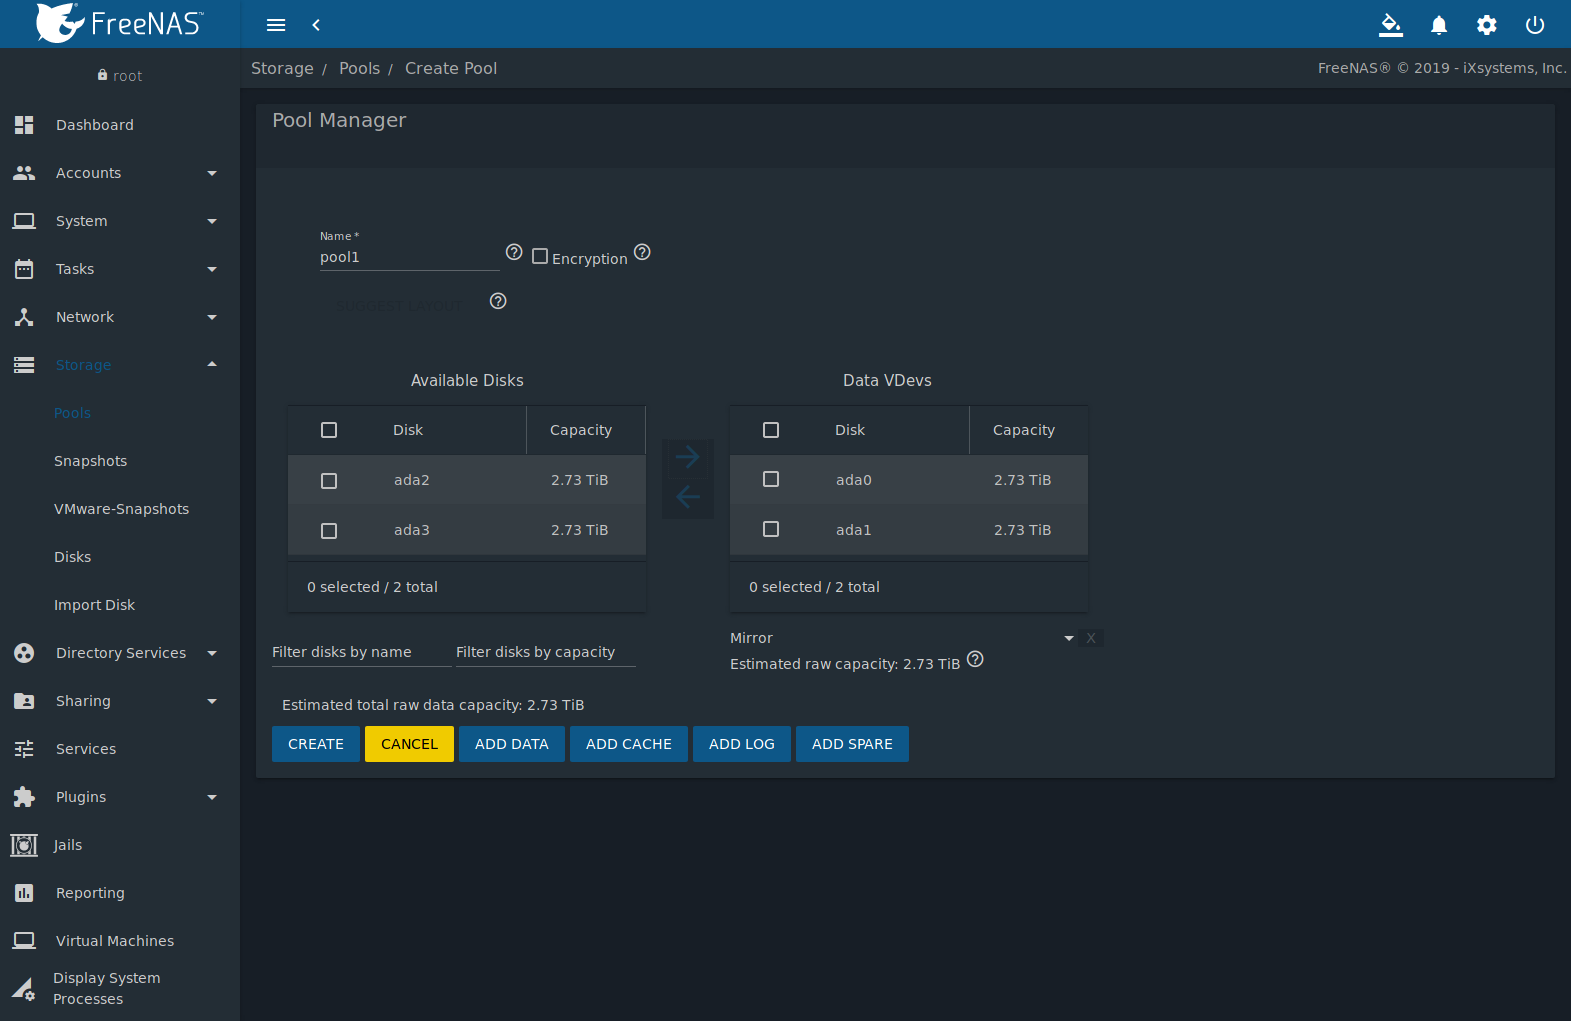
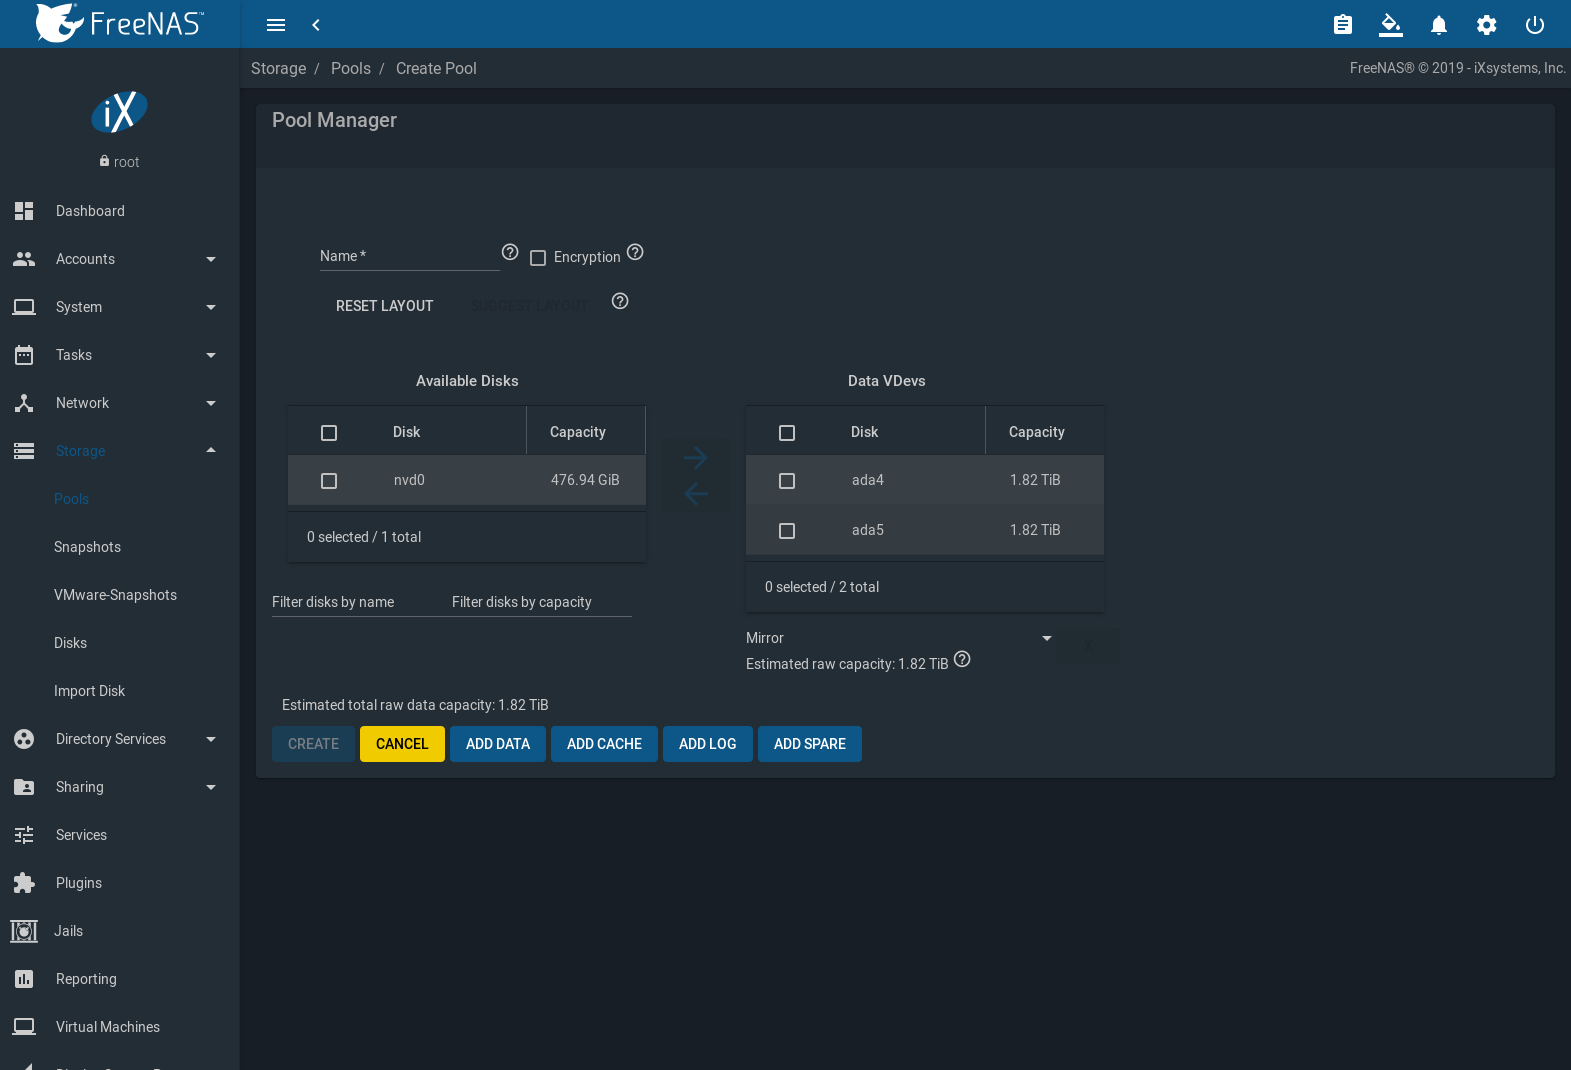
NAS-101890: Add text about RESET LAYOUT button and rework SUGGEST LAYOUT button text - Add temporary replacement image to storage-pools-add.png HTML build test: no issues.

diff --git a/userguide/storage.rst b/userguide/storage.rst
@@ -136,9 +136,12 @@ left arrow to return it to the :guilabel:`Available Disks` section.
 To add multiple :guilabel:`Data VDevs`, click :guilabel:`Add Data` for
 each required additional vdev.
 
-Alternately, click the :guilabel:`SUGGEST LAYOUT` button which will
-add all of the disks and suggest an optimal layout for both redundancy
-and capacity.
+Click :guilabel:`RESET LAYOUT` to return all disks to the
+:guilabel:`Available Disks` area and close all but one
+:guilabel:`Data VDevs` table.
+
+Alternately, click :guilabel:`SUGGEST LAYOUT` to add all disks and
+suggest an optimal layout for both redundancy and capacity.
 
 The pool layout is dependent upon the number of disks added to
 :guilabel:`Data VDevs` and the number of available layouts increases as
